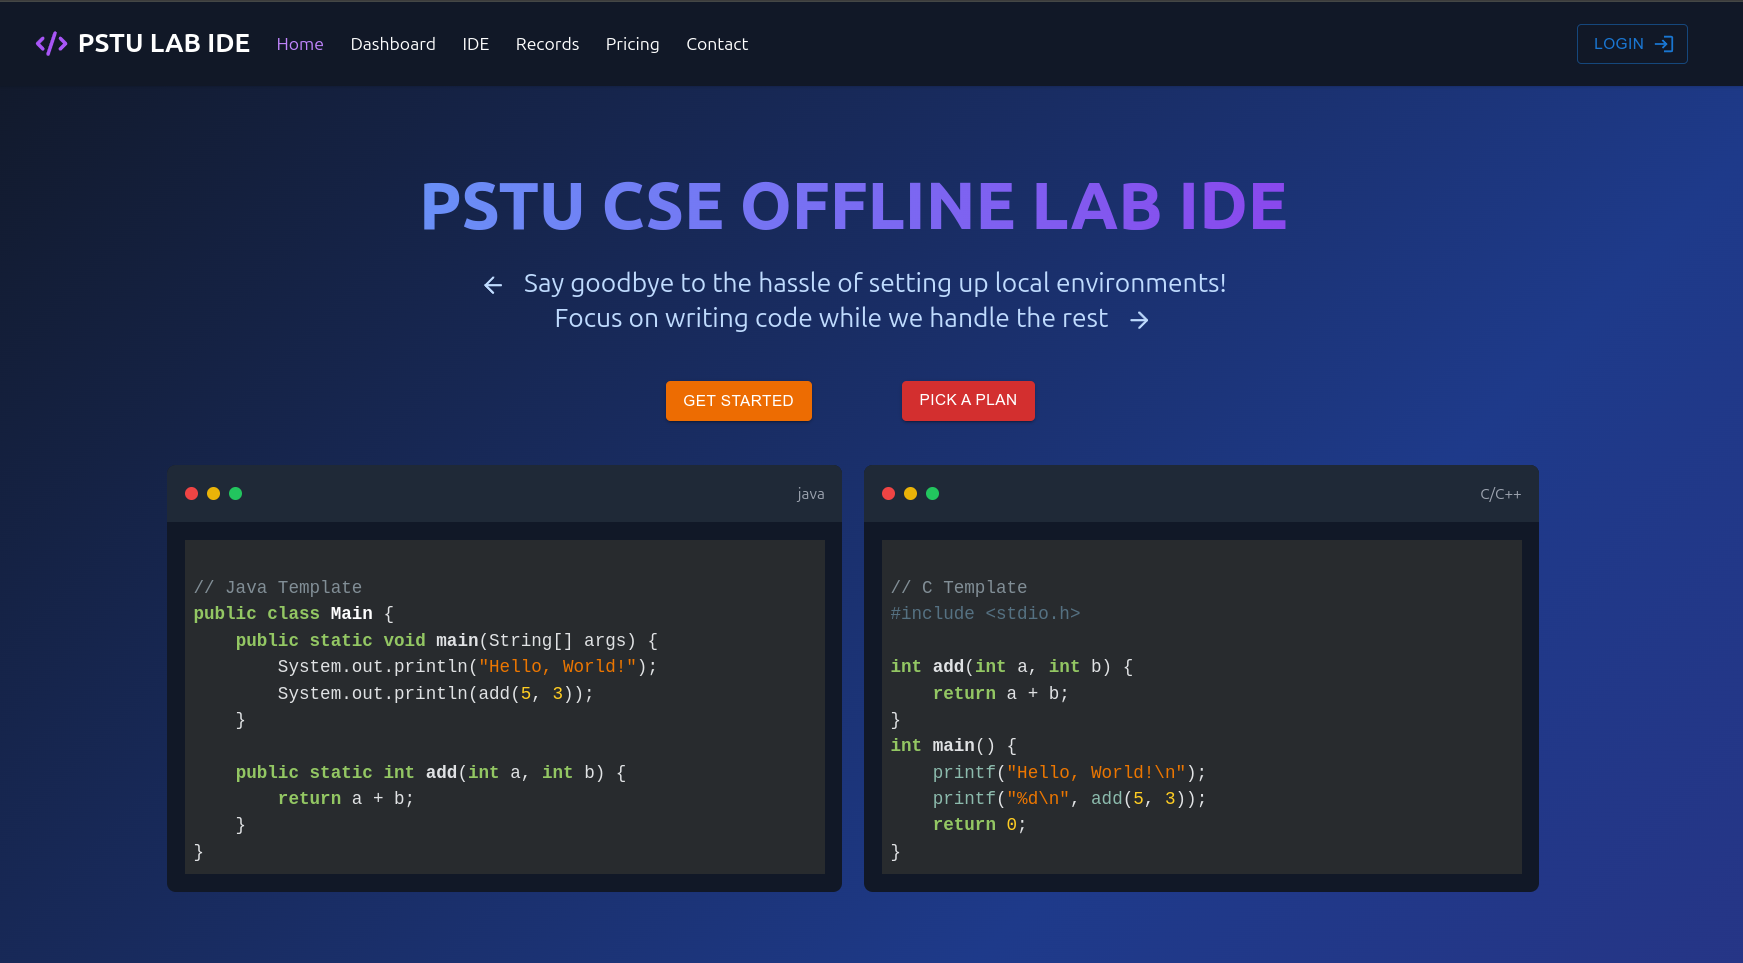
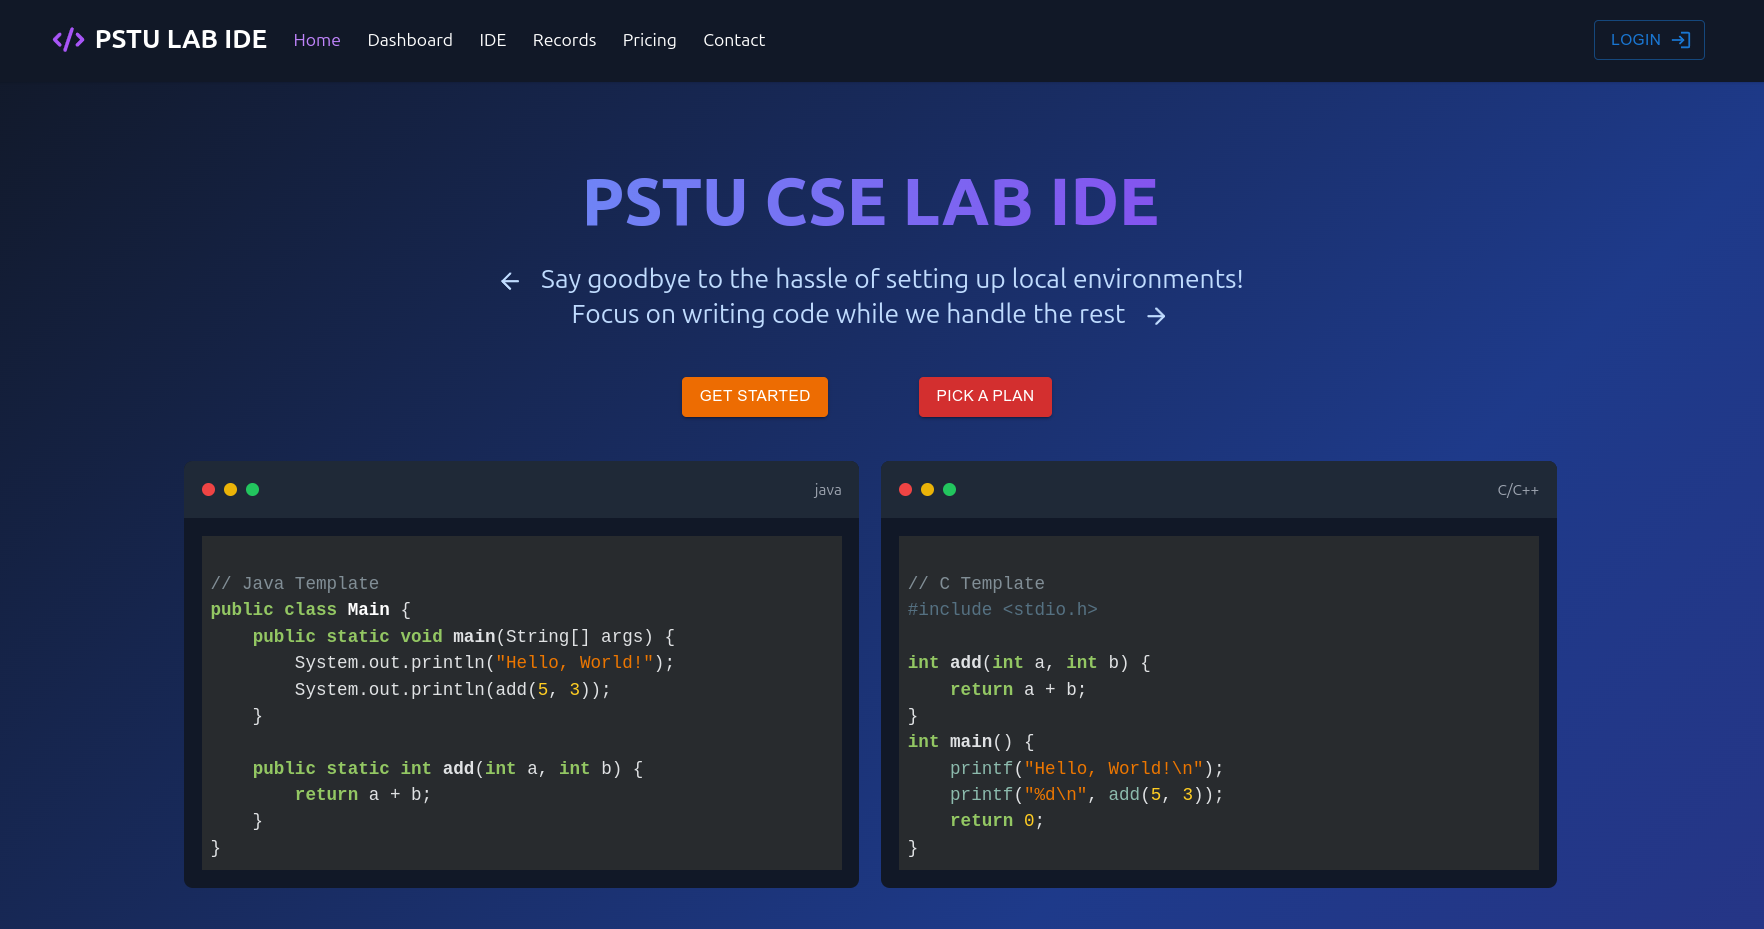
Update Home component title

diff --git a/src/components/Home.jsx b/src/components/Home.jsx
@@ -97,7 +97,7 @@ const Home = () => {
             animate={{ y: 0, opacity: 1 }}
             transition={{ duration: 0.8, delay: 0.2 }}
           >
-            PSTU CSE OFFLINE LAB IDE
+            PSTU CSE LAB IDE
           </motion.h2>
           <motion.p
             className="text-2xl text-blue-200 mb-10 max-w-3xl mx-auto"
